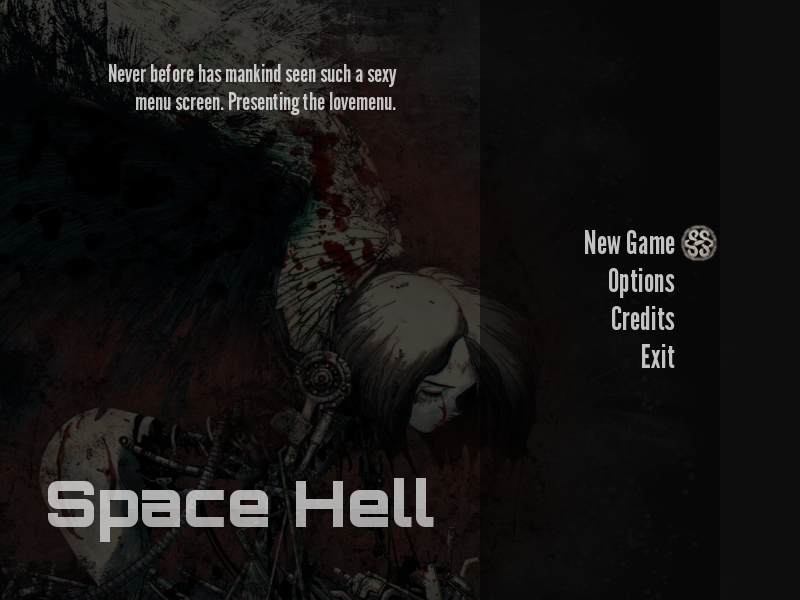
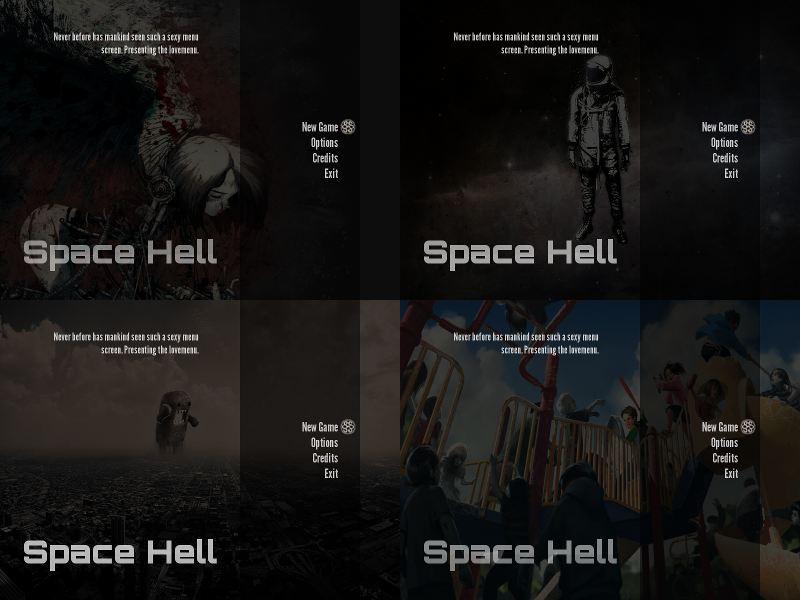
New screenshot, and bg's for demo.

diff --git a/README.md b/README.md
@@ -1,1 +1,4 @@
+Mouse, keyboard input.
+See main.lua for example usage.
+Press R for bg roate.
 <img src="https://github.com/josefnpat/lovemenu/raw/master/screenshot.png" />
